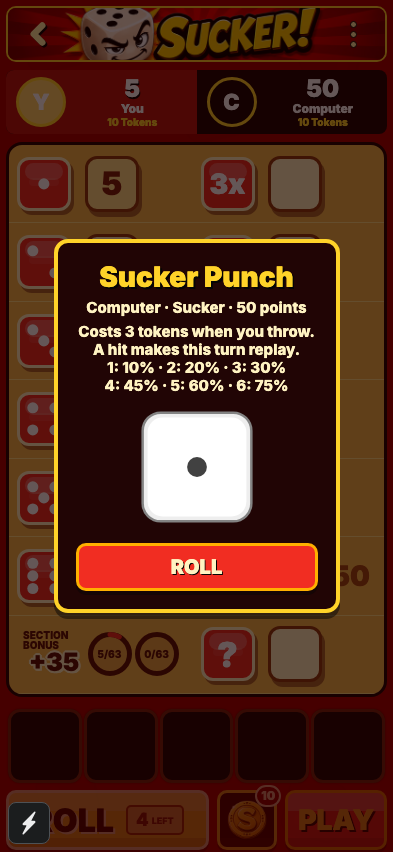
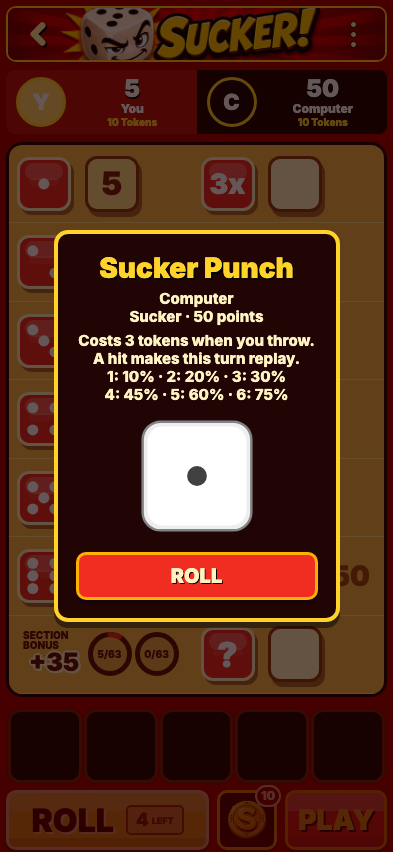
Keep Punch actions visible with long opponent names

Changed region(s): [[0.1221, 0.2441, 0.8855, 0.5798], [0.1221, 0.5798, 0.8855, 0.7629], [0.0, 0.9155, 0.1527, 1.0]]

diff --git a/App.tsx b/App.tsx
@@ -231,7 +231,7 @@ type LocalPlayerProfile = {
   displayName: string;
 };
 type SuckerPunchDialogState = {
-  targetLabel?: string;
+  target?: { playerName: string; category: ScoreCategory; score: number };
   outcome?: SuckerPunchOutcome;
   phase: 'ready' | 'rolling' | 'rolled' | 'throwing' | 'result';
   scope: 'local' | 'remote';
@@ -2704,7 +2704,7 @@ export function LocalGameScreen({
         phase: 'ready',
         scope: 'local',
         targetTurnId: pendingTurn.id,
-        targetLabel: `${opponentPlayer.name} · ${categoryLabels[pendingTurn.category]} · ${pendingTurn.score} points`,
+        target: { playerName: opponentPlayer.name, category: pendingTurn.category, score: pendingTurn.score },
       });
       return;
     }
@@ -2723,9 +2723,10 @@ export function LocalGameScreen({
       phase: 'ready',
       scope: 'remote',
       targetTurnId: remoteLastTurnId,
-      targetLabel: remoteLastTurn
-        ? `${opponentPlayer.name} · ${categoryLabels[remoteLastTurn.category]} · ${remoteLastTurn.score} points`
-        : undefined,
+      target:
+        remoteLastTurn?.id === remoteLastTurnId
+          ? { playerName: opponentPlayer.name, category: remoteLastTurn.category, score: remoteLastTurn.score }
+          : undefined,
     });
   }
 
@@ -3978,7 +3979,7 @@ export function LocalGameScreen({
               onThrowPunch={() => void handleThrowSuckerPunch()}
               outcome={suckerPunchDialog.outcome}
               phase={suckerPunchDialog.phase}
-              targetLabel={suckerPunchDialog.targetLabel}
+              target={suckerPunchDialog.target}
               rollProgress={suckerPunchDieAnimation}
             />
           )}
@@ -4753,7 +4754,7 @@ function SuckerPunchChanceDialog({
   outcome,
   phase,
   rollProgress,
-  targetLabel,
+  target,
 }: {
   face: DieValue;
   onDismissResult: () => void;
@@ -4762,7 +4763,7 @@ function SuckerPunchChanceDialog({
   outcome?: SuckerPunchOutcome;
   phase: SuckerPunchDialogState['phase'];
   rollProgress: Animated.Value;
-  targetLabel?: string;
+  target?: SuckerPunchDialogState['target'];
 }) {
   const layout = useGameLayout();
   const isResult = phase === 'result';
@@ -4826,14 +4827,24 @@ function SuckerPunchChanceDialog({
         >
           {title}
         </Text>
-        {!isResult && targetLabel && (
-          <Text
-            maxFontSizeMultiplier={gameMaxFontSizeMultiplier}
-            style={[styles.suckerPunchChanceHint, layout.styles.suckerPunchChanceHint]}
-            testID="sucker-punch-target"
-          >
-            {targetLabel}
-          </Text>
+        {!isResult && target && (
+          <View style={{ width: '100%', gap: layout.unit(8) }} testID="sucker-punch-target">
+            <Text
+              numberOfLines={2}
+              ellipsizeMode="tail"
+              accessibilityLabel={target.playerName}
+              maxFontSizeMultiplier={gameMaxFontSizeMultiplier}
+              style={[styles.suckerPunchChanceHint, layout.styles.suckerPunchChanceHint]}
+            >
+              {target.playerName}
+            </Text>
+            <Text
+              maxFontSizeMultiplier={gameMaxFontSizeMultiplier}
+              style={[styles.suckerPunchChanceHint, layout.styles.suckerPunchChanceHint]}
+            >
+              {categoryLabels[target.category]} · {target.score} points
+            </Text>
+          </View>
         )}
         {phase === 'ready' && (
           <Text

diff --git a/e2e/multiplayer-web.spec.ts b/e2e/multiplayer-web.spec.ts
@@ -439,6 +439,41 @@ test('two players can create an invite and play turns through the web UI', async
   });
 });
 
+test('long opponent names keep the Punch action on screen', async ({ browser }) => {
+  const runId = crypto.randomUUID();
+  const alice = await createUser(`punch-name-alice-${runId}`, 'Punch Name Alice');
+  const bob = await createUser(`punch-name-bob-${runId}`, 'Punch Name Bob');
+  const alicePage = await openAuthedPage(browser, alice);
+  const bobPage = await openAuthedPage(browser, bob);
+  try {
+    await bobPage.setViewportSize({ width: 375, height: 667 });
+    const gameId = await createAcceptedGame(alicePage, bobPage);
+    const game = await loadGame(gameId);
+    const name = 'An exceptionally long opponent name '.repeat(35);
+    game.state.players.find((player: { id: string }) => player.id === alice.id)!.name = name;
+    assertNoError((await admin.from('profiles').update({ display_name: name }).eq('id', alice.id)).error);
+    assertNoError((await admin.from('games').update({ state: game.state }).eq('id', gameId)).error);
+    await openGameFromLobby(alicePage, gameId);
+    await alicePage.getByTestId('roll-button').click();
+    await waitForPressableEnabled(alicePage.getByTestId('home-score-box-chance'));
+    await alicePage.getByTestId('home-score-box-chance').click();
+    await alicePage.getByTestId('play-score-button').click();
+    await openGameFromLobby(bobPage, gameId);
+    await waitForPressableEnabled(bobPage.getByTestId('token-menu-button'));
+    await bobPage.getByTestId('token-menu-button').click();
+    await bobPage.getByTestId('token-option-sucker-punch').click();
+    await bobPage.screenshot({ path: test.info().outputPath('long-punch-name.png') });
+    const panel = await bobPage.getByTestId('sucker-punch-chance-panel').boundingBox();
+    expect(panel!.y).toBeGreaterThanOrEqual(0);
+    expect(panel!.y + panel!.height).toBeLessThanOrEqual(667);
+    await expect(bobPage.getByTestId('sucker-punch-chance-roll-button')).toBeInViewport();
+    await expect(bobPage.getByTestId('sucker-punch-target')).toContainText('Chance');
+  } finally {
+    await alicePage.context().close();
+    await bobPage.context().close();
+  }
+});
+
 test('long player names stay inside the game summary dialog', async ({ browser }) => {
   const runId = `${Date.now()}-${crypto.randomUUID().slice(0, 8)}`;
   const longName = 'AlexandertheGreatWithoutAnyBreaks'.repeat(3);

diff --git a/e2e/token-explanations.spec.ts b/e2e/token-explanations.spec.ts
@@ -39,7 +39,8 @@ for (const viewport of [
     await expect(page.getByTestId('token-option-sucker-punch')).toContainText('before rolling');
     await page.getByTestId('token-option-sucker-punch').click();
     const dialog = page.getByTestId('sucker-punch-chance-dialog');
-    await expect(dialog).toContainText('Computer · Sucker · 50 points');
+    await expect(dialog).toContainText('Sucker · 50 points');
+    await expect(page.getByTestId('sucker-punch-target')).toContainText('Computer');
     await expect(dialog).toContainText('Costs 3 tokens when you throw');
     for (const odds of ['1: 10%', '2: 20%', '3: 30%', '4: 45%', '5: 60%', '6: 75%'])
       await expect(dialog).toContainText(odds);
@@ -49,7 +50,7 @@ for (const viewport of [
     await page.screenshot({ path: test.info().outputPath('punch-after.png') });
     await page.getByTestId('sucker-punch-chance-roll-button').click();
     await expect(dialog).toContainText(/Rolled [1-6]/);
-    await expect(page.getByTestId('sucker-punch-target')).toContainText('Computer · Sucker · 50 points');
+    await expect(page.getByTestId('sucker-punch-target')).toContainText('Sucker · 50 points');
     await expect(page.getByTestId('token-menu-button')).toContainText('10');
   });
 }

diff --git a/docs/review-evidence/token-explanations/README.md b/docs/review-evidence/token-explanations/README.md
@@ -7,3 +7,5 @@ The token menu now explains Punch timing, insufficient balances, and the current
 Seven local token/focus browser cases passed, including 393 × 852, 375 × 667, and 430 × 932 dialog bounds. Four explanation cases were rerun after arranging the odds in two rows. The existing two-player invite/turn flow passed with added multiplayer Mulligan disclosure assertions. Both typechecks, 88 app tests, 11 Edge tests, lint, and whitespace checks passed. Updated only the intentional token-menu visual baseline; unrelated macOS raster differences from snapshot generation were discarded.
 
 This PR builds on the token-menu focus fix (#76). It does not enable remote Mulligan or resolve the pending Punch-eligibility rules decision. Native device appearance remains unverified.
+
+Review follow-up: a local multiplayer fixture with a 1,225-character opponent name reproduced a panel starting 214 pixels above the viewport, with the Roll action off-screen ([before](long-name-before.png)). The opponent name now truncates to two visual lines while the category/score occupy a separate line, so those details remain visible ([after](long-name-after.png)). The complete name remains available to accessibility. The remote long-name regression and four local explanation cases pass; typecheck, lint, and whitespace checks pass after this correction.
